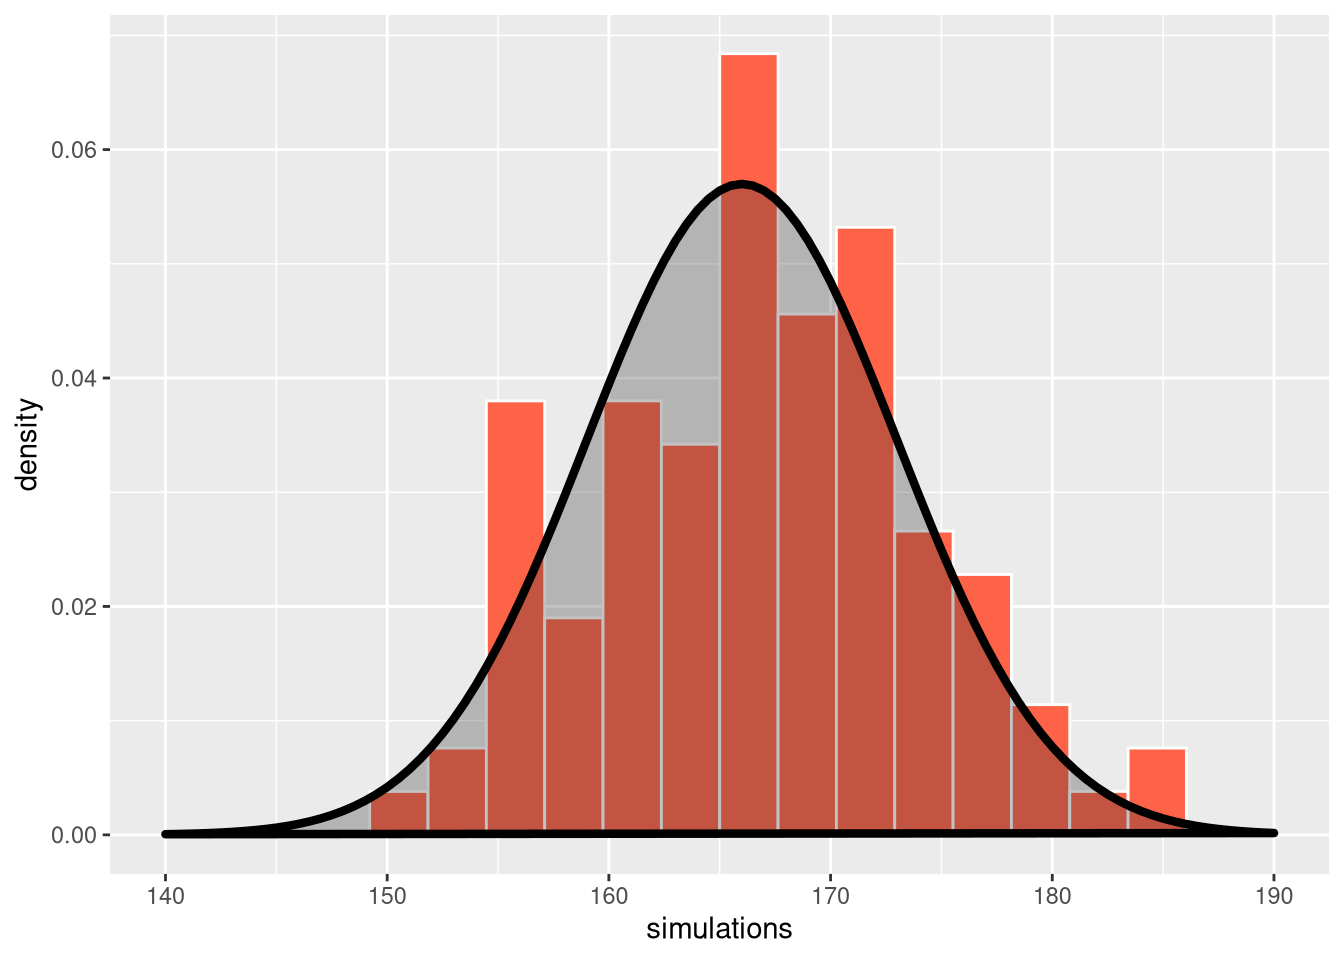
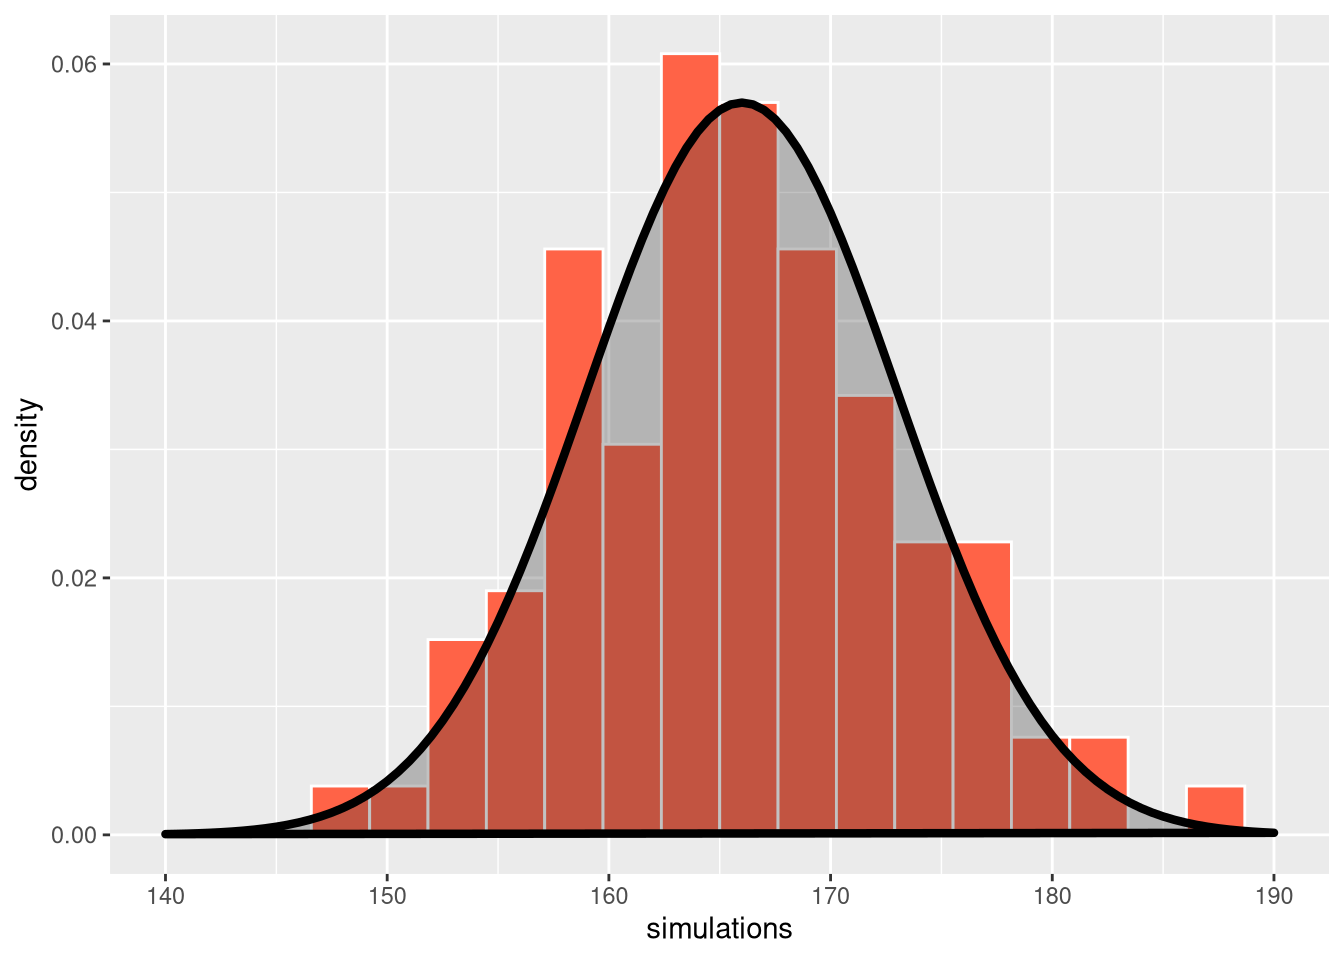
Built site for gh-pages

diff --git a/06-statistical-models.html b/06-statistical-models.html
@@ -334,11 +334,11 @@ window.Quarto = {
 <section id="why-build-statistical-models" class="level1">
 <h1>Why build statistical models?</h1>
 <p>So far, we have contented ourselves with describing the data we have. Ultimately, we are however often more interested in the processes underlying the data we see, the so called <em>data generating process (DGP)</em>. The DGP is unobserved and possibly (probably) complex. It comprises the mechanisms we ultimately want to learn about, but also other, unexplained or unmodelled sources of variation, as well as artifacts of our data collection procedures, such as sampling variation and measurement error.</p>
-<p>To understand this process, we need to <em>model</em> the DGP, typically with heavily simplified models. The ulitmate goal here is to disentangle the different sources of variation that induce uncertainty into our data-based claims and inferences. Assessing (i.e., quantifying) this uncertainty is an important step because it tells us how confident we can be about our findings.</p>
+<p>To understand this process, we need to <em>model</em> the DGP, typically with heavily simplified models. The ultimate goal here is to disentangle the different sources of variation that induce uncertainty into our data-based claims and inferences. Assessing (i.e., quantifying) this uncertainty is an important step because it tells us how confident we can be about our findings.</p>
 </section>
 <section id="modeling-and-simulating-variability" class="level1">
 <h1>Modeling and simulating variability</h1>
-<p>Statistical models typically treat parts of the variation in an <em>outcome variable</em> as deterministic (e.g., explained by variation in <em>input/predictor variables</em>) and parts as random (i.e., ‘noise’ or unmodelled variation). To obtain a <em>generative</em> model of our data-generating processs (i.e., one which we can use to generate or simulate data), we need to be also simulate the random parts, for which we need to specify a <em>probability distribution</em> which can reasonably approximate the <em>pattern</em> of randomness in the unmodeled variation.</p>
+<p>Statistical models typically treat parts of the variation in an <em>outcome variable</em> as deterministic (e.g., explained by variation in <em>input/predictor variables</em>) and parts as random (i.e., ‘noise’ or unmodelled variation). To obtain a <em>generative</em> model of our data-generating process (i.e., one which we can use to generate or simulate data), we need to be also simulate the random parts, for which we need to specify a <em>probability distribution</em> which can reasonably approximate the <em>pattern</em> of randomness in the unmodelled variation.</p>
 <p>E.g., given the information that an average woman in Germany is 166cm tall, with a standard deviation of around 7cm, we might model the height measurement of a randomly picked woman as a draw from a <em>normal</em> distribution, one of the most commonly used probability distributions in statistical modeling. This is commonly written as:</p>
 <p><span class="math display">\[ \textrm{height} \sim \textrm{Normal}(\mu = 166, \sigma = 7) \]</span></p>
 <p>The tilde ~ indicates that height is treated as a random variable following the specified distribution. Keep in mind that this is just a model - it might be a good model or a bad model, but there’s no law saying that height need to be normally distributed (although there are technical reasons for the ubiquity of the normal distribution related to the central limit theorem).</p>
@@ -376,20 +376,19 @@ window.Quarto = {
 <p>In this case, we know the exact data generating process, because we made it up ourselves and simulated the data accordingly. While this will of course not be the case in real data analysis, simulating data from a model taken to represent the true, unobserved data generating process is still a good exercise for at least two reasons:</p>
 <ul>
 <li><p>It helps with reasoning about the model and checking its potential deficiencies by assessing the plausibility of simulations.</p></li>
-<li><p>It lets us check how easily and precisely we could recover certain characteristics (such as the mean) from data if we didn’t know the underlying DGP and its characteristscs. This will lead us to <em>statistical inference</em>, which is about learning these characteristics from data.</p></li>
+<li><p>It lets us check how easily and precisely we could recover certain characteristics (such as the mean) from data if we didn’t know the underlying DGP and its characteristics. This will lead us to <em>statistical inference</em>, which is about learning these characteristics from data.</p></li>
 </ul>
 <section id="probability-distributions" class="level2">
 <h2 class="anchored" data-anchor-id="probability-distributions">Probability distributions</h2>
-<p>A probability distribution exhaustively distributes a unitless quantity (‘probability’) that is normalized to an amount of 1 across a set of outcomes of a process which we regard as random. We could do this by hand, but more typical is the use of a mathematical rule for distributing probability, such as encoded in the normal distribution used above. These rules typically have parameters which influence the distributional behaviour, such as the evenness or concentration of the generated values.</p>
+<p>A probability distribution exhaustively distributes a unitless quantity (‘probability’) that is normalized to an amount of 1 across a set of outcomes of a process which we regard as random. We could do this by hand, but more typical is the use of a mathematical rule for distributing probability, such as encoded in the normal distribution used above. These rules typically have parameters which influence the distributional behavior, such as the evenness or concentration of the generated values.</p>
 <p>The normal distribution is just one of many parametric families of probability distributions that are used in statistical models. Distributions are usefully distinguished by whether they model a categorical, discrete, or continuous random variable, whether there are constraints on their <em>support</em> (the range of values with non-zero probability under the distribution), and their shape (e.g., whether they have ‘fat tails’, or are symmetric or multimodal).</p>
 <p>Here is an overview of some common distributions and their characteristics:</p>
 <table class="caption-top table">
 <colgroup>
-<col style="width: 20%">
-<col style="width: 20%">
-<col style="width: 20%">
-<col style="width: 20%">
-<col style="width: 20%">
+<col style="width: 25%">
+<col style="width: 25%">
+<col style="width: 25%">
+<col style="width: 25%">
 </colgroup>
 <thead>
 <tr class="header">
@@ -397,76 +396,66 @@ window.Quarto = {
 <th>Data type</th>
 <th>Support</th>
 <th>Parameters</th>
-<th>Pdf / pmf</th>
 </tr>
 </thead>
 <tbody>
 <tr class="odd">
 <td><strong>Normal</strong></td>
 <td>Continuous</td>
-<td><span class="math inline">\(\mathbb{R}\)</span></td>
-<td><span class="math inline">\(\mu\)</span> (location), <span class="math inline">\(\sigma\)</span> (scale)</td>
-<td><span class="math inline">\(\exp\!\left[-\frac{(x-\mu)^2}{2\sigma^2}\right] / (\sigma\sqrt{2\pi})\)</span></td>
+<td><span class="math inline">\(\mathbb{R} \quad (-\infty, \infty)\)</span></td>
+<td><span class="math inline">\(\mu\)</span> (location) <br> <span class="math inline">\(\sigma\)</span> (scale)</td>
 </tr>
 <tr class="even">
 <td><strong>Student-t</strong></td>
 <td>Continuous</td>
-<td><span class="math inline">\(\mathbb{R}\)</span></td>
-<td><span class="math inline">\(\nu\)</span> (df), <span class="math inline">\(\mu\)</span> (location), <span class="math inline">\(\sigma\)</span> (scale)</td>
-<td><span class="math inline">\(\dfrac{\Gamma\!\left(\frac{\nu+1}{2}\right)}{\Gamma\!\left(\frac{\nu}{2}\right)\sqrt{\nu\pi}\sigma}\left[1+\dfrac{(x-\mu)^2}{\nu\sigma^2}\right]^{-(\nu+1)/2}\)</span></td>
+<td><span class="math inline">\(\mathbb{R} \quad (-\infty, \infty)\)</span></td>
+<td><span class="math inline">\(\nu\)</span> (df) <br> <span class="math inline">\(\mu\)</span> (location) <br> <span class="math inline">\(\sigma\)</span> (scale)</td>
 </tr>
 <tr class="odd">
 <td><strong>Exponential</strong></td>
 <td>Continuous</td>
 <td><span class="math inline">\([0,\infty)\)</span></td>
 <td><span class="math inline">\(\lambda\)</span> (rate)</td>
-<td><span class="math inline">\(\lambda e^{-\lambda x}\)</span></td>
 </tr>
 <tr class="even">
 <td><strong>Beta</strong></td>
 <td>Continuous</td>
 <td><span class="math inline">\((0,1)\)</span></td>
-<td><span class="math inline">\(\mu\)</span> (mean), <span class="math inline">\(\phi\)</span> (precision)</td>
-<td><span class="math inline">\(\dfrac{\Gamma(\phi)}{\Gamma(\mu\phi)\Gamma((1-\mu)\phi)}x^{\mu\phi-1}(1-x)^{(1-\mu)\phi-1}\)</span></td>
+<td><span class="math inline">\(\mu\)</span> (mean) <br> <span class="math inline">\(\phi\)</span> (precision)</td>
 </tr>
 <tr class="odd">
 <td><strong>Binomial</strong></td>
 <td>Discrete</td>
 <td><span class="math inline">\(\{0,\dots,n\}\)</span></td>
-<td><span class="math inline">\(n\)</span> (trials), <span class="math inline">\(\theta\)</span> (success prob)</td>
-<td><span class="math inline">\(\binom{n}{x}\theta^x(1-\theta)^{n-x}\)</span></td>
+<td><span class="math inline">\(n\)</span> (trials) <br> <span class="math inline">\(\theta\)</span> (success prob)</td>
 </tr>
 <tr class="even">
 <td><strong>Poisson</strong></td>
 <td>Discrete</td>
-<td><span class="math inline">\(\mathbb{N}_0\)</span></td>
+<td><span class="math inline">\(\mathbb{N}_0 \quad \{0, 1, 2, ...\}\)</span></td>
 <td><span class="math inline">\(\lambda\)</span> (mean)</td>
-<td><span class="math inline">\(\lambda^x e^{-\lambda} / x!\)</span></td>
 </tr>
 <tr class="odd">
 <td><strong>Negative Binomial</strong></td>
 <td>Discrete</td>
-<td><span class="math inline">\(\mathbb{N}_0\)</span></td>
-<td><span class="math inline">\(\mu\)</span> (mean), <span class="math inline">\(\phi\)</span> (shape/dispersion)</td>
-<td><span class="math inline">\(\dfrac{\Gamma(x+\phi)}{\Gamma(\phi)x!}\left(\dfrac{\phi}{\phi+\mu}\right)^\phi\left(\dfrac{\mu}{\phi+\mu}\right)^{x}\)</span></td>
+<td><span class="math inline">\(\mathbb{N}_0 \quad \{0, 1, 2, ...\}\)</span></td>
+<td><span class="math inline">\(\mu\)</span> (mean) <br> <span class="math inline">\(\phi\)</span> (scale)</td>
 </tr>
 <tr class="even">
 <td><strong>Bernoulli</strong></td>
-<td>Discrete</td>
+<td>Categorical</td>
 <td><span class="math inline">\(\{0,1\}\)</span></td>
 <td><span class="math inline">\(\theta\)</span> (success prob)</td>
-<td><span class="math inline">\(\theta^x(1-\theta)^{1-x}\)</span></td>
 </tr>
 <tr class="odd">
 <td><strong>Categorical</strong></td>
 <td>Categorical</td>
 <td><span class="math inline">\(\{1,\dots,K\}\)</span></td>
 <td><span class="math inline">\(\theta_1,\dots,\theta_K\)</span> (category probs)</td>
-<td><span class="math inline">\(\theta_k\)</span></td>
 </tr>
 </tbody>
 </table>
-<p>Probability theory is an incredibly rich but also notoriously tricky topic for study. Given the applied scope of this class, we will not delve too deep, as even only basic probabilty theory can easily fill a full semester. Nevertheless, much can already be achieved with only a rudimentary and more intuitive than technical understanding of what’s going on, and we will pick out what we need as we go along.</p>
+<p>Probability theory is an incredibly rich but also notoriously tricky topic for study. Given the applied scope of this class, we will not delve too deep, as even only basic probability theory can easily fill a full semester. Nevertheless, much can already be achieved with only a rudimentary and more intuitive than technical understanding of what’s going on, and we will pick out what we need as we go along.</p>
 </section>
 <section id="exercises" class="level2">
 <h2 class="anchored" data-anchor-id="exercises">Exercises</h2>
@@ -488,11 +477,11 @@ window.Quarto = {
 <div class="cell">
 <div class="code-copy-outer-scaffold"><div class="sourceCode cell-code" id="cb4"><pre class="sourceCode r code-with-copy"><code class="sourceCode r"><span id="cb4-1"><a href="#cb4-1" aria-hidden="true" tabindex="-1"></a><span class="fu">mean</span>(simulations)</span></code></pre></div><button title="Copy to Clipboard" class="code-copy-button"><i class="bi"></i></button></div>
 <div class="cell-output cell-output-stdout">
-<pre><code>[1] 166.8796</code></pre>
+<pre><code>[1] 165.9938</code></pre>
 </div>
 <div class="code-copy-outer-scaffold"><div class="sourceCode cell-code" id="cb6"><pre class="sourceCode r code-with-copy"><code class="sourceCode r"><span id="cb6-1"><a href="#cb6-1" aria-hidden="true" tabindex="-1"></a><span class="fu">sd</span>(simulations)</span></code></pre></div><button title="Copy to Clipboard" class="code-copy-button"><i class="bi"></i></button></div>
 <div class="cell-output cell-output-stdout">
-<pre><code>[1] 7.288607</code></pre>
+<pre><code>[1] 7.389953</code></pre>
 </div>
 </div>
 <p>We can see that while the observed mean and SD are close to the values of 166 and 7 specified when we simulated the data, the are not exactly the same due to the randomness inherent to the DGP.</p>
@@ -508,7 +497,7 @@ window.Quarto = {
 <pre><code>[1] 166.0068</code></pre>
 </div>
 </div>
-<p>The ‘true’ mean in this population is 166.0068. Now, draw 50 people randomly from that population (without replacement, i.e., we can only draw everybode once):</p>
+<p>The ‘true’ mean in this population is 166.0068. Now, draw 50 people randomly from that population (without replacement, i.e., we can only draw everybody once):</p>
 <div class="cell">
 <div class="code-copy-outer-scaffold"><div class="sourceCode cell-code" id="cb10"><pre class="sourceCode r code-with-copy"><code class="sourceCode r"><span id="cb10-1"><a href="#cb10-1" aria-hidden="true" tabindex="-1"></a>samp <span class="ot">&lt;-</span> <span class="fu">sample</span>(pop, <span class="dv">50</span>, <span class="at">replace =</span> <span class="cn">FALSE</span>)</span></code></pre></div><button title="Copy to Clipboard" class="code-copy-button"><i class="bi"></i></button></div>
 </div>
@@ -578,7 +567,7 @@ window.Quarto = {
 <h2 class="anchored" data-anchor-id="aleatoric-and-epistemic-uncertainty">Aleatoric and epistemic uncertainty</h2>
 <p>We have now seen two ways in which our inferences can be uncertain:</p>
 <ul>
-<li><p>There is variation not explained by our model but instead assumed to be random. In our example, this is represented by the variability in the normal distribution (measured by the <span class="math inline">\(\sigma\)</span> parameter, i.e., the distribution’s standard deviation). Our model is just not powerful enough to reason about why different women have different heights; For this, we would need a better model. This kind of systemic uncertainty in our predictions about any specific outcome is called <strong>aleatoric</strong> uncertainty (<em>alea</em> is latin for dice).</p></li>
+<li><p>There is variation not explained by our model but instead assumed to be random. In our example, this is represented by the variability in the normal distribution (measured by the <span class="math inline">\(\sigma\)</span> parameter, i.e., the distribution’s standard deviation). Our model is just not powerful enough to reason about why different women have different heights; For this, we would need a better model. This kind of systemic uncertainty in our predictions about any specific outcome is called <strong>aleatoric</strong> uncertainty (<em>alea</em> is Latin for dice).</p></li>
 <li><p>Next to the intrinsic uncertainty of our model, there is uncertainty coming from the limited availability / precision of the data. The sampling uncertainty in the unknown parameters discussed above falls into this category. We call this uncertainty <strong>epistemic</strong> uncertainty. As we have seen, and unlike aleatoric uncertainty, this can be reduced by gathering more data, as our estimates become more and more precise.</p></li>
 </ul>
 </section>

diff --git a/07-globe-tossing.html b/07-globe-tossing.html
@@ -344,7 +344,7 @@ window.Quarto = {
 </blockquote>
 <p>With this description, we can start building a simple model of the data generating process. Assuming the throws are independent and the probability of landing water or land only depends on the proportion of the surface covered by each, we can specify the result of throw <span class="math inline">\(i\)</span> as coming from a Bernoulli distribution:</p>
 <p><span class="math display">\[ Y_i \sim \textrm{Bernoulli}(\theta) \]</span></p>
-<p>Here, <span class="math inline">\(Y_i\)</span> is a random variable equal to 1 when the throw produces ‘water’, and 0 if it produces ‘land’. The parameter <span class="math inline">\(\theta\)</span> is the underlying probability of observing ‘water’, which we want to learn about by observing how often our throws produce each of the two possible outcomes.</p>
+<p>Here, <span class="math inline">\(Y_i\)</span> is a random variable equal to 1 when the throw produces ‘water’, and 0 if it produces ‘land’. The parameter <span class="math inline">\(\theta\)</span> is the underlying probability of observing ‘water’, which we want to learn about by observing how often our throws produce each of the two possible outcomes. Given our assumptions above, knowing <span class="math inline">\(\theta\)</span> would tell us the share of the Earth’s surface covered by water.</p>
 <p>If we knew <span class="math inline">\(\theta\)</span>, we could simulate the process with the <code>rbinom</code> function (there’s no built-in bernoulli distribution, because it is just a special case of the binomial distribution with <code>size = 1</code>):</p>
 <div class="cell">
 <div class="code-copy-outer-scaffold"><div class="sourceCode cell-code" id="cb1"><pre class="sourceCode r code-with-copy"><code class="sourceCode r"><span id="cb1-1"><a href="#cb1-1" aria-hidden="true" tabindex="-1"></a>theta <span class="ot">&lt;-</span> <span class="fl">0.7</span></span>
@@ -353,10 +353,10 @@ window.Quarto = {
 <div class="cell-output cell-output-stdout">
 <pre><code>throws
  0  1 
-29 71 </code></pre>
+30 70 </code></pre>
 </div>
 </div>
-<p>However, we usually don’t know the model parameters beforehand and instead have to estimate them from data.</p>
+<p>However, we usually don’t know the model parameters beforehand and instead have to estimate them from data. The next section will discuss how to do this.</p>
 </section>
 <section id="bayesian-inference-in-theory" class="level2">
 <h2 class="anchored" data-anchor-id="bayesian-inference-in-theory">Bayesian inference in theory</h2>

diff --git a/casestudy-eurostat.html b/casestudy-eurostat.html
@@ -317,7 +317,7 @@ pre > code.sourceCode > span > a:first-child::before { text-decoration: underlin
 <div class="cell">
 <div class="code-copy-outer-scaffold"><div class="sourceCode cell-code" id="cb2"><pre class="sourceCode r code-with-copy"><code class="sourceCode r"><span id="cb2-1"><a href="#cb2-1" aria-hidden="true" tabindex="-1"></a>dat <span class="ot">&lt;-</span> <span class="fu">get_eurostat</span>(<span class="at">id =</span> <span class="st">"ilc_peps11"</span>, <span class="at">time_format =</span> <span class="st">"num"</span>)</span></code></pre></div><button title="Copy to Clipboard" class="code-copy-button"><i class="bi"></i></button></div>
 <div class="cell-output cell-output-stderr">
-<pre><code>Table ilc_peps11 cached at /tmp/RtmpJkEf1o/eurostat/b3278355bf6b35a1717860f5b9c0da1e.rds</code></pre>
+<pre><code>Table ilc_peps11 cached at /tmp/RtmpJpzsdB/eurostat/faeacdd4504e47e73c0f199e2f434f34.rds</code></pre>
 </div>
 </div>
 <div class="cell">
